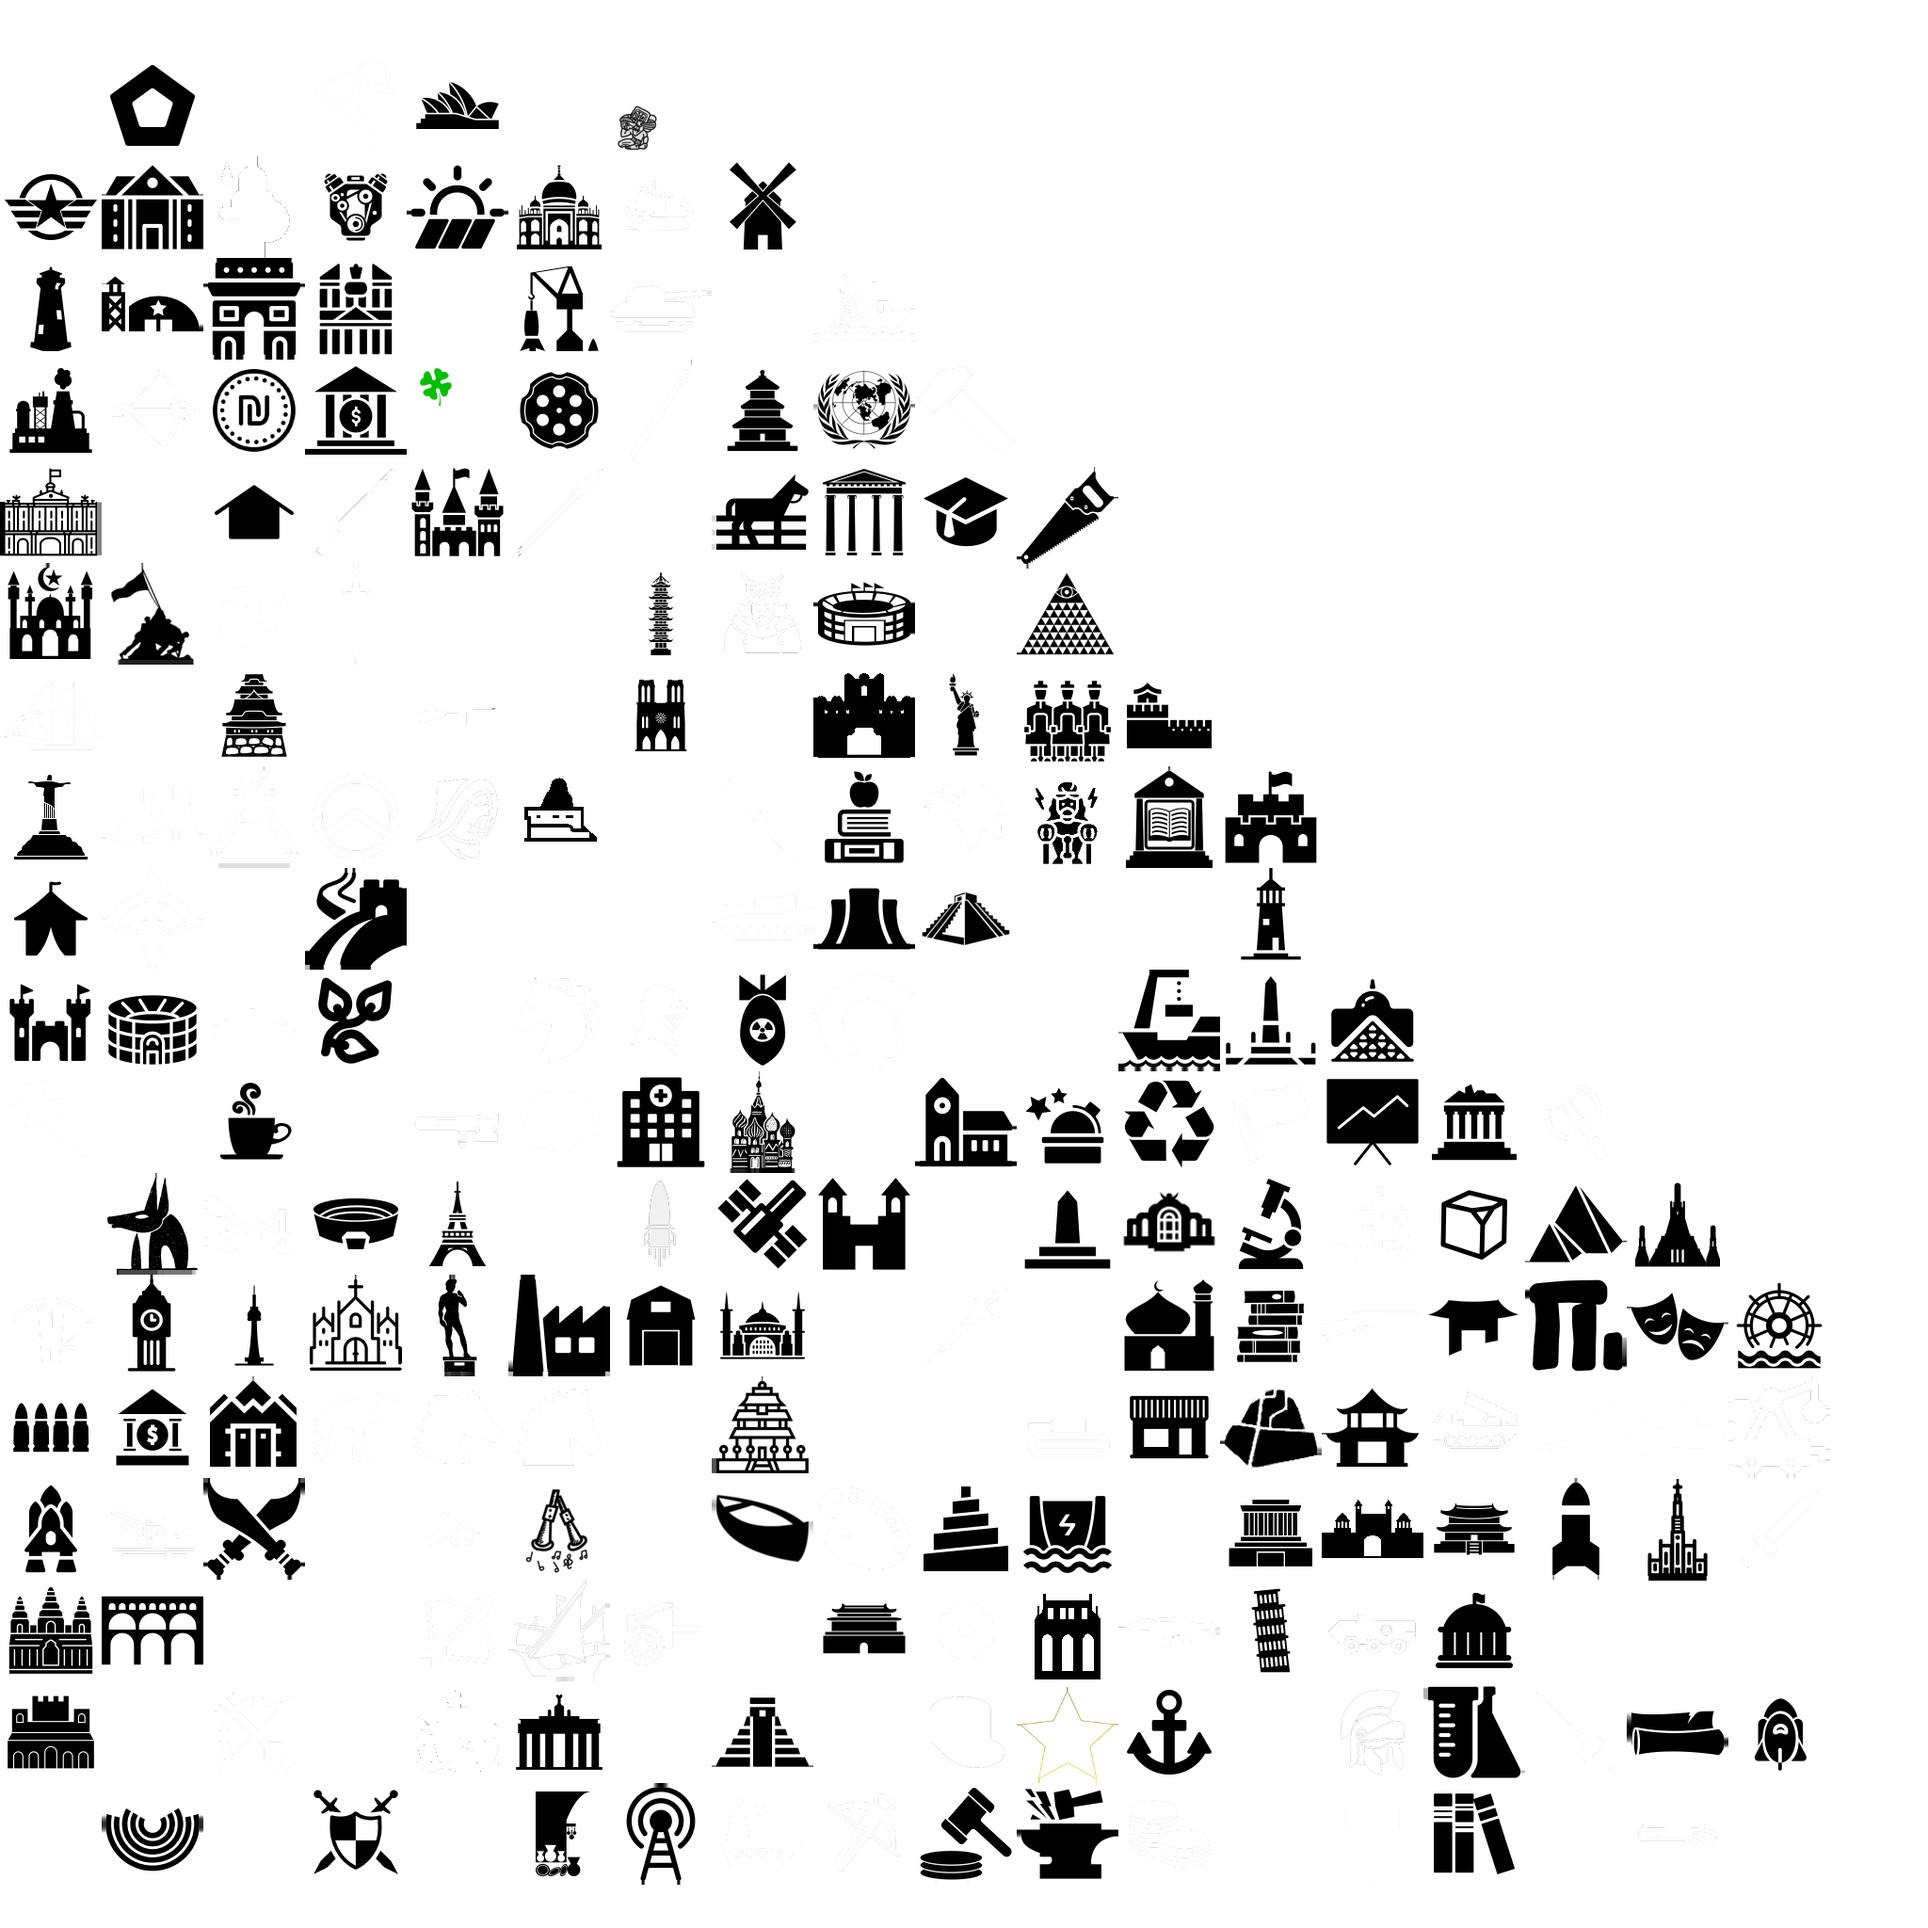
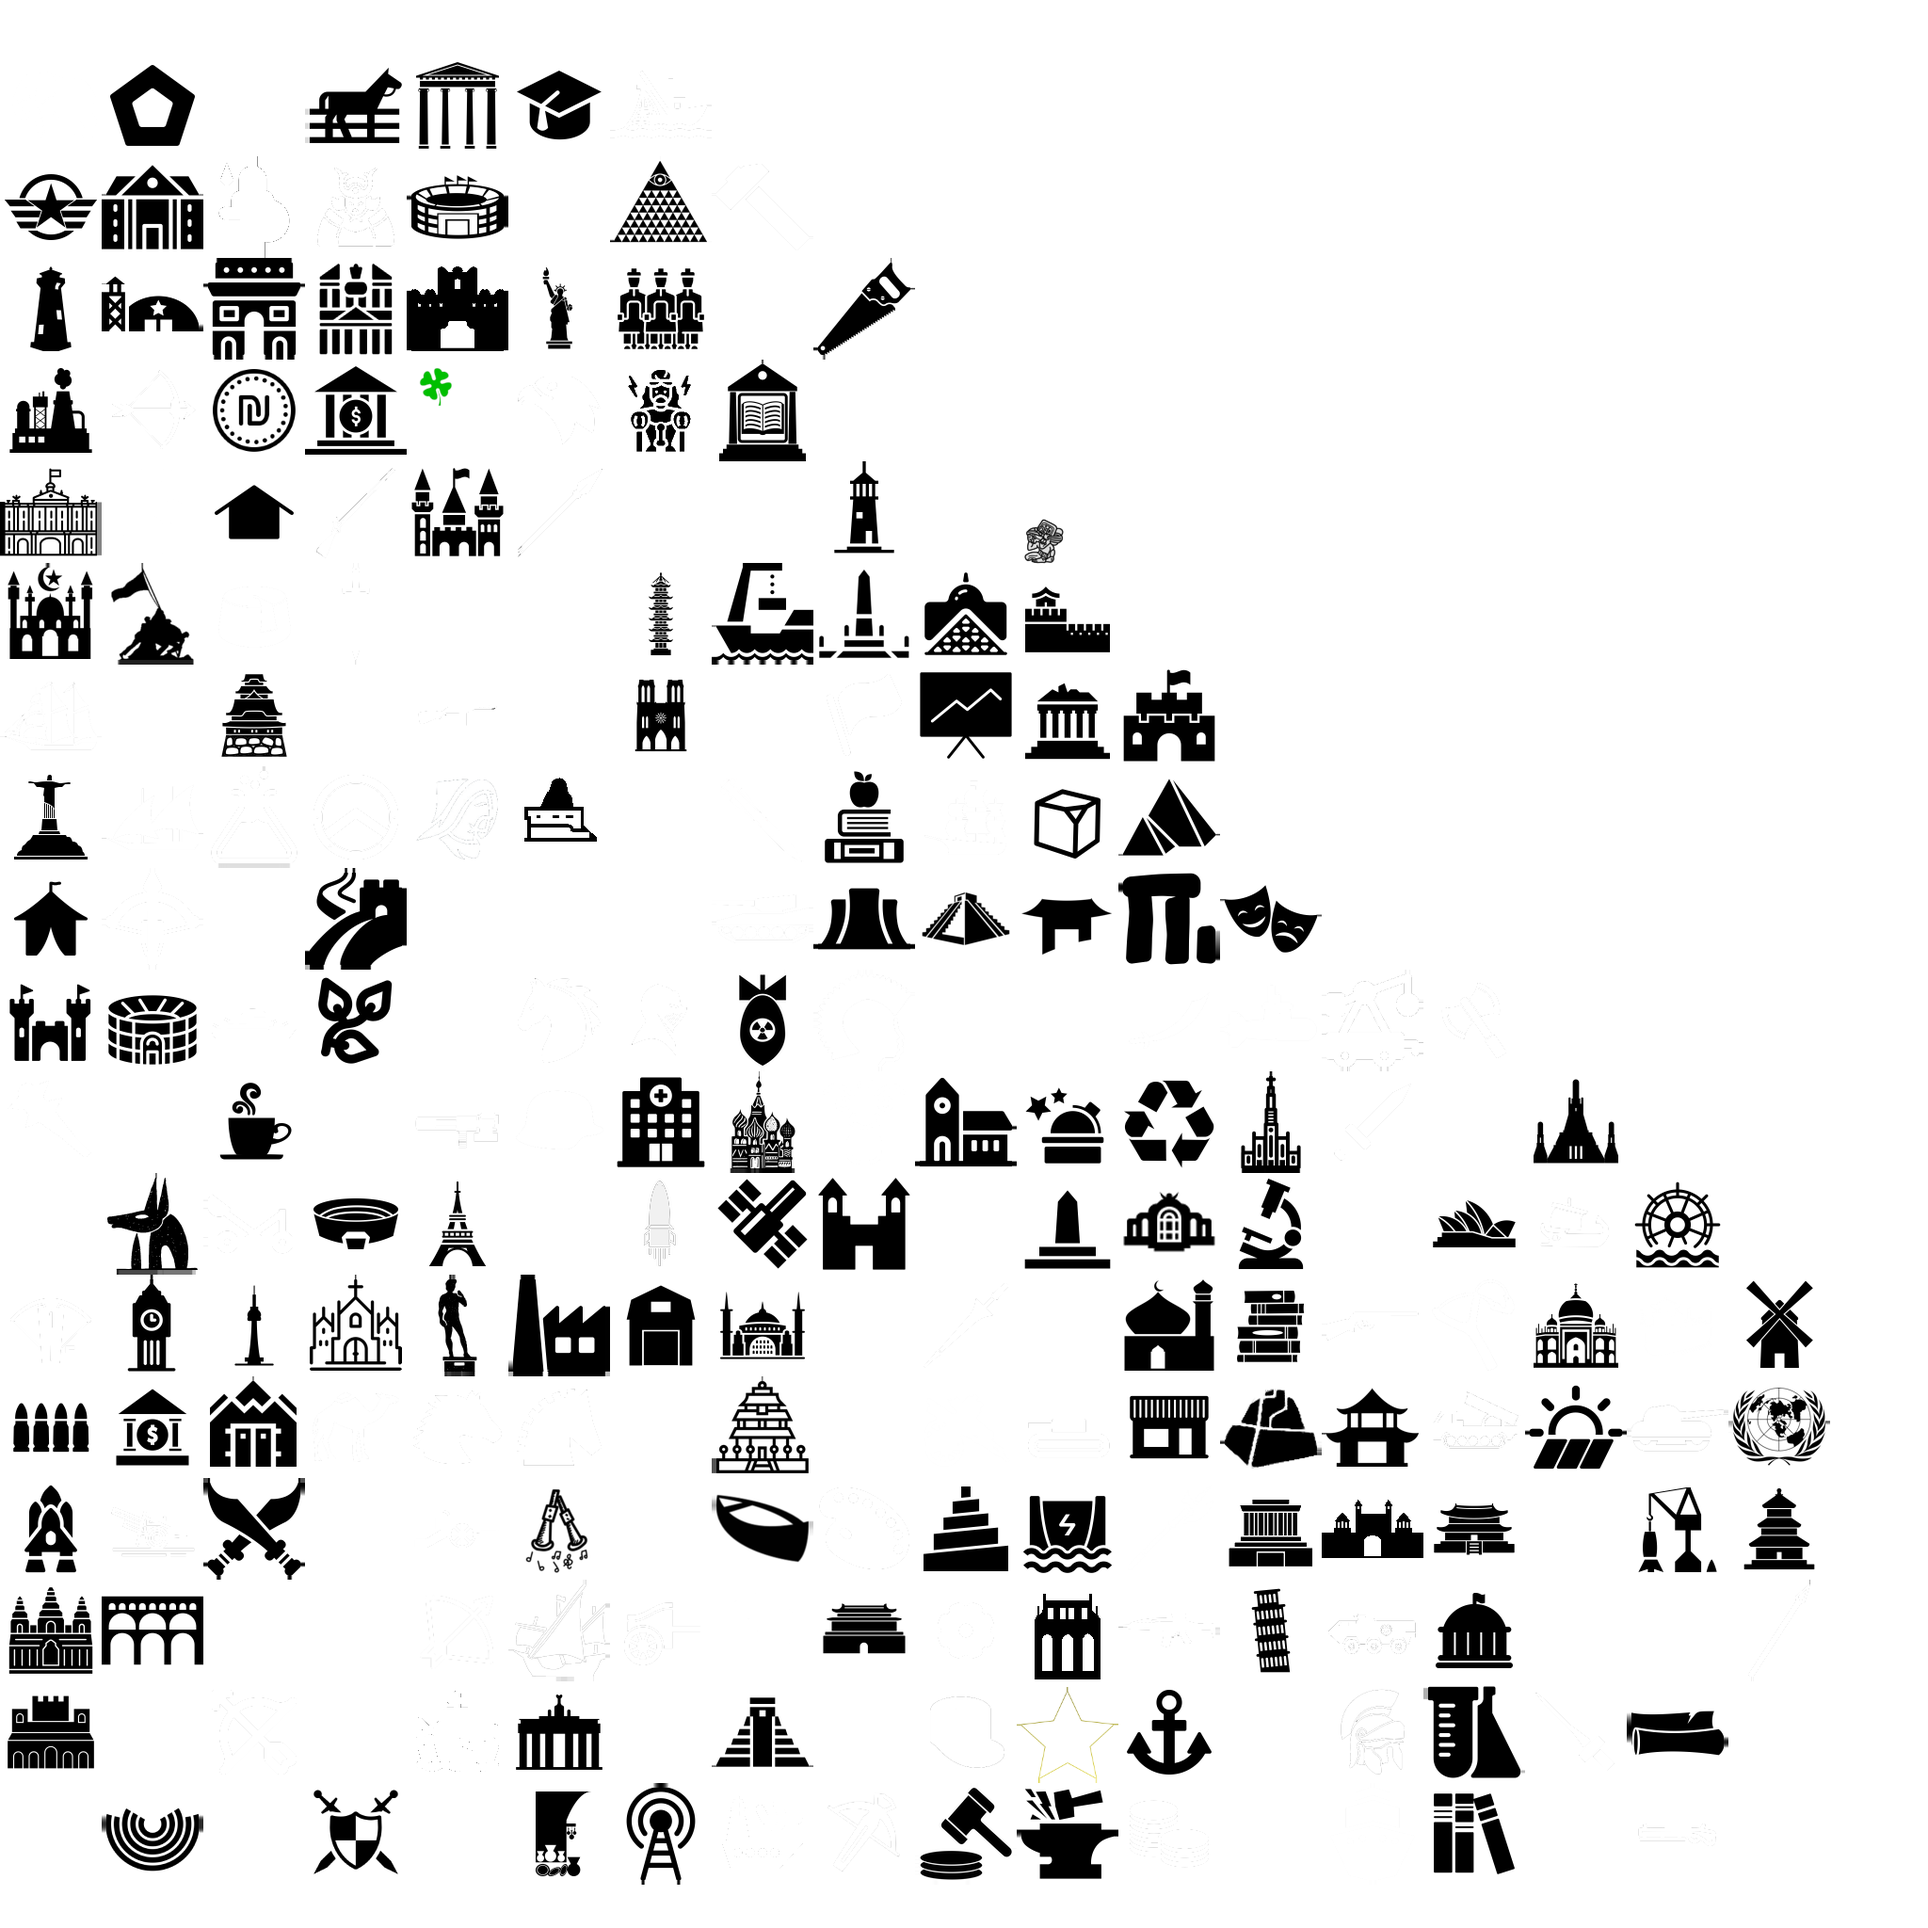
WLTK decoration png's and atlas

Changed region(s): [[0.1562, 0.0312, 0.9688, 0.8438], [0.9062, 0.875, 0.9375, 0.9375]]

diff --git a/docs/Credits.md b/docs/Credits.md
@@ -674,6 +674,9 @@ Unless otherwise specified, all the following are from [the Noun Project](https:
 * [East side of stela C, Quirigua](https://en.wikipedia.org/wiki/File:East_side_of_stela_C,_Quirigua.PNG) for Mayan calendar symbols
 * [Footprints](https://thenounproject.com/icon/footprints-1393611/) by Abdul Wahhab for movement overlay toggle, slightly modified. Currently unused.
 * Arrows.svg by Intralexical (@will-ca), CC0.
+* [favor](https://thenounproject.com/icon/favor-1029350/) by MICHAEL G BROWN for WLTK marker on City Overview
+* [Party](https://thenounproject.com/icon/party-1784941/) by Adrien Coquet for WLTK header on City Overview
+* [Party](https://thenounproject.com/icon/party-2955155/) by Lars Meiertoberens as additional WLKT decoration
 
 ## Main menu
 
